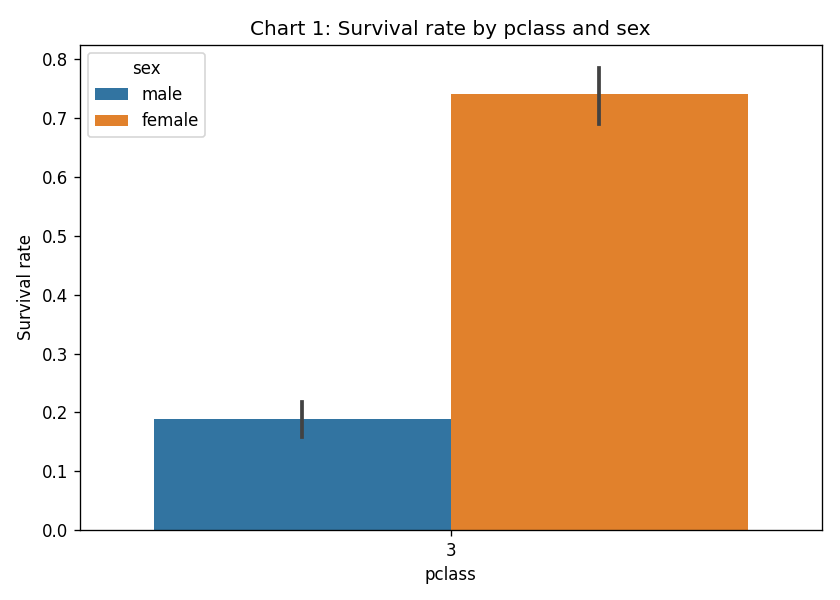
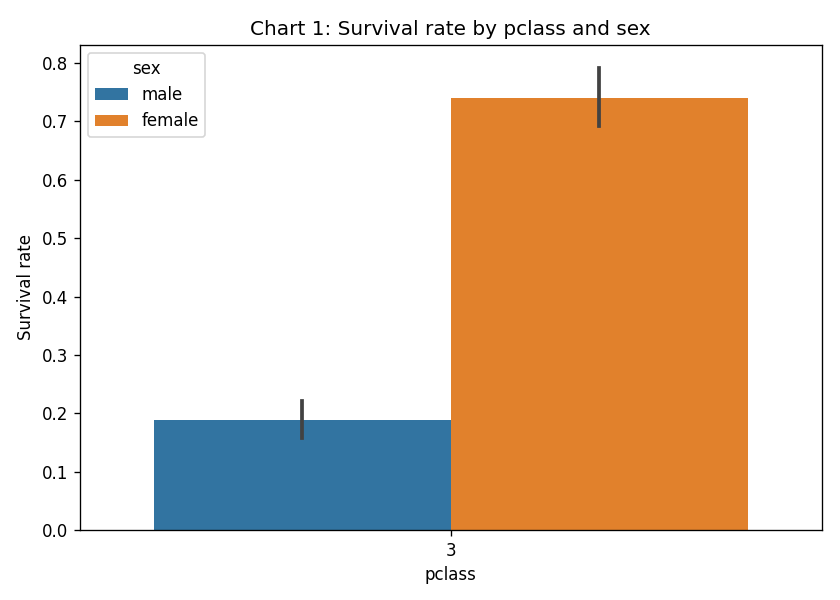
Updated the 02_modelling.py file and its supporting files

diff --git a/analytics/02_modelling.py b/analytics/02_modelling.py
@@ -1,0 +1,227 @@
+import numpy as np
+import pandas as pd
+import matplotlib.pyplot as plt
+import seaborn as sns
+import joblib
+
+from sklearn.preprocessing import StandardScaler, OneHotEncoder
+from sklearn.model_selection import train_test_split, GridSearchCV
+from sklearn.linear_model import LinearRegression, LogisticRegression
+from sklearn.tree import DecisionTreeClassifier, plot_tree
+from sklearn.ensemble import RandomForestClassifier
+from sklearn.metrics import confusion_matrix, accuracy_score, precision_score, recall_score, f1_score, roc_curve, roc_auc_score, mean_absolute_error, mean_squared_error, r2_score
+
+from sklearn.compose import ColumnTransformer
+from sklearn.pipeline import Pipeline
+from sklearn.impute import SimpleImputer
+
+
+
+# Part - B: Predictive modeling, continuing from the cleaned data
+# Load the clean Dataframe "titanic_clean.csv" obtained in 01_eda.py
+df = pd.read_csv("titanic_clean.csv")
+print(f"Successfully loaded 'titanic_clean.csv':\nTotal rows: {df.shape[0]}\nTotal columns: {df.shape[1]}")
+
+# Selecting the features and Target for the model
+target = "survived"
+features = ["pclass", "sex", "age", "sibsp", "parch", "fare", "embarked"]
+
+# Defining X and y with a Dataframe copy
+X = df[features].copy()
+y = df[target].copy()
+
+# Defining categorical columns and numerical columns
+categorical_features = ["sex", "embarked"]
+numerical_features = ["pclass", "age", "sibsp", "parch", "fare"]
+
+# --------------------------------------------------------------
+# Task 7: Startified train - test split
+# --------------------------------------------------------------
+print("=" * 50)
+print("Stratified train - test split")
+print("=" * 50)
+
+try:
+    # Display the target class distribution for passengers who survived and not-survived (in percentage)
+    print("Target class balance: ")
+    target_class_balance = (y.value_counts(normalize=True) * 100).round(4)
+    print(f"Percentage of Passengers not survive: {target_class_balance[0]}")
+    print(f"Percentage of Passengers survived: {target_class_balance[1]}")
+
+    # Stratified train and test spliting
+    X_train, X_test, y_train, y_test = train_test_split(X, y, stratify= y, test_size= 0.2, random_state= 42)
+
+    print(f"\nTrain shape: {X_train.shape}\nTest shape: {X_test.shape}")
+    print("Train class balance: ")
+    print((y_train.value_counts(normalize= True) * 100).round(4))
+    print("Test class balance: ")
+    print((y_test.value_counts(normalize= True) * 100).round(4))
+
+    # Justification
+    print("\nJustification: \nThe target class 'survived' is imbalanced dataset with ~39% percentage of survived passengers and ~61% percentage of not survived passengers.")
+    print("Imbalanced dataset will lead to inconsistent or biased model evaluation.")
+    print("The Stratify Train - Test split guarantees both train dataset & test dataset splits with original data ratio i.e., (~61/39 ratio)")
+    
+except Exception as e:
+    print(f"Error: Task 7 (Stratified train - test split) failed {e}")
+
+
+# --------------------------------------------------------------
+# Task 8: Preprocessing - fit on training data only (ColumnTransformer)
+# --------------------------------------------------------------
+print("=" * 50)
+print("Preprocessing - fit on train data only")
+print("=" * 50)
+
+try:
+    # Preprocessing pipeline for numerical features
+    # If Numeric column contains any NaN values, they should be replaced with median of that column 
+    # and then standardize respective column
+    numeric_pipeline = Pipeline(steps= [("imputer", SimpleImputer(strategy= "median")),
+                                        ("scaler", StandardScaler())])
+
+    # Preprocessing pipeline for categorical features
+    # If Category column contains any missing values, they should be replaced with most common value
+    # and perform one-hot encoding
+    category_pipeline = Pipeline(steps= [("imputer", SimpleImputer(strategy= "most_frequent")),
+                                         ("onehot", OneHotEncoder(handle_unknown= "ignore"))])
+
+    # Combine both numeric and category pipelines with ColumnTransformer
+    preprocessor = ColumnTransformer(transformers= [("numeric", numeric_pipeline, numerical_features),
+                                                    ("category", category_pipeline, categorical_features)])
+
+except Exception as e:
+    print(f"Error: Task 8 (Preprocessing - fit on Train data only) failed {e}")
+
+
+# --------------------------------------------------------------
+# Task 9: Train three classifiers on identical split
+# -------------------------------------------------------------- 
+print("=" * 50)
+print("Train three classifiers on identical split")
+print("=" * 50)
+
+try:
+    # Create a dictionary with three models
+    models = {"Logistic Regression": LogisticRegression(max_iter= 1000, random_state= 42),
+              "Decision Tree": DecisionTreeClassifier(random_state= 42),
+              "Random Forest": RandomForestClassifier(random_state= 42)}
+
+    # Create dictionary for training models
+    training_models = {}
+    # Loop through every model and train the models
+    for name, model in models.items():
+        # Create a pipeline using previous ColumnTransformer preprocessor
+        pipe = Pipeline(steps= [("preprocessor", preprocessor),
+                                ("classifier model", model)])
+        # Train pipeline
+        # fit on training data
+        pipe.fit(X_train, y_train)
+        # Save the trained pipeline
+        training_models[name] = pipe
+        print(f"Trained model: {name}")
+
+    # Visualize the Decision Tree
+    # retrieve the trained decision tree
+    dt_pipeline = training_models["Decision Tree"]
+    # Extract the decision tree classifier model only
+    dt_model = dt_pipeline.named_steps["classifier model"]
+    # Get feature names after preprocessing
+    dt_features = dt_pipeline.named_steps["preprocessor"].get_feature_names_out()
+
+    # Plot the decision tree
+    # Create a figure
+    plt.figure(figsize= (20, 10))
+    # Visualize the trained decision tree
+    plot_tree(dt_model, feature_names= dt_features, class_names= ["not survived", "survived"], filled= True, max_depth= 3, fontsize= 8)
+    # Add the title
+    plt.title("Decision Tree Plot")
+    # Adjust layout
+    plt.tight_layout()
+    # Save the figure
+    plt.savefig("decision_tree_plot.png", dpi= 120)
+    # Close the figure
+    plt.close()
+    print("'decision_tree_plot.png' saved successfully")
+
+except Exception as e:
+    print(f"Error: Task 9 (Train three classifiers on the identical split) failed {e}")
+
+
+
+# --------------------------------------------------------------
+# Task 10: Evaluate all three models 
+# --------------------------------------------------------------
+print("=" * 50)
+print("Evaluate all the three models")
+print("=" * 50)
+
+try:
+    # Create a list to store the evaluation results
+    evaluation_results = []
+    # Create a figure for the ROC curves
+    plt.figure(figsize= (7, 6))
+    # Loop through every trained model
+    for name, pipe in training_models.items():
+        # Predict the class labels
+        y_pred = pipe.predict(X_test)
+        # Predict class probabilities (survived class)
+        y_proba = pipe.predict_proba(X_test)[:, 1]
+
+        # Compute the confusion matrix
+        cm = confusion_matrix(y_test, y_pred)
+        # Compute accuracy
+        acc = accuracy_score(y_test, y_pred)
+        # Compute precision
+        prec = precision_score(y_test, y_pred)
+        # Compute Recall
+        rec = recall_score(y_test, y_pred)
+        # Compute F1 Score
+        f1 = f1_score(y_test, y_pred)
+        # Compute AUC
+        auc = roc_auc_score(y_test, y_pred)
+
+        print(f"\n-----   {name}   -----")
+        print(f"Confusion matrix: \n{cm}")
+        print(f"Accuracy score: {acc:.3f}")
+        print(f"Precision score: {prec:.3f}")
+        print(f"Recall score: {rec:.3f}")
+        print(f"F1 score: {f1:.3f}")
+        print(f"AUC score: {auc:.3f}")
+
+        # Compute ROC curve cordinates
+        fpr, tpr, _ = roc_curve(y_test, y_proba)
+        # Plot the roc curve
+        plt.plot(fpr, tpr, label= f"{name}      (AUC = {auc:.3f}")
+        # Saving evaluation results 
+        evaluation_results.append({"Model": name,
+                                   "Accuracy score": acc,
+                                   "Precision score": prec,
+                                   "Recall score": rec,
+                                   "F1 score": f1,
+                                   "AUC score": auc})
+
+    # Draw the diagonal line from (0,0) to (1,1) in ROC curve
+    plt.plot([0, 1], [0, 1], linestyle= "--", color= "gray", label= "Chance")
+    # Label X and Y axes
+    plt.xlabel("False Positive Rate (FPR)")
+    plt.ylabel("True Positive Rate (TPR)")
+    # Add a title
+    plt.title("ROC Curves -- All three Classifiers")
+    # Display legend
+    plt.legend()
+    # Adjust layout space
+    plt.tight_layout()
+    # Save the figure
+    plt.savefig("roc_curves.png", dpi= 120)
+    # Close the figure
+    plt.close()
+    print("'roc_curves.png' saved successfully")
+
+    # Create a comparison table for all the three classifiers
+    evaluation_df = pd.DataFrame(evaluation_results).set_index("Model")
+    print(f"\n-----   Comparision of all three classifier models   -----")
+    print(f"{evaluation_df.round(3)}")   
+
+except Exception as e:
+    print(f"Error: Task 10 (Evaluate all the three models) failed {e}")
